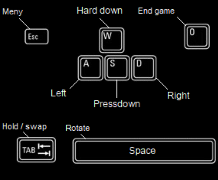
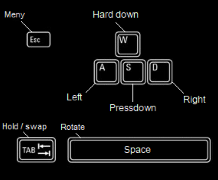
Change Image Keys in "Engine"

diff --git a/Engine.cpp b/Engine.cpp
@@ -163,10 +163,10 @@ void Engine::events()
                 {
                     holdAndSwapTetromino();
                 }
-                else if (Event.key.code == sf::Keyboard::O)
-                {
-                    Quit = true;
-                }
+                //else if (Event.key.code == sf::Keyboard::O)
+                //{
+                //    Quit = true;
+                //}
                 break;
             }
         }
